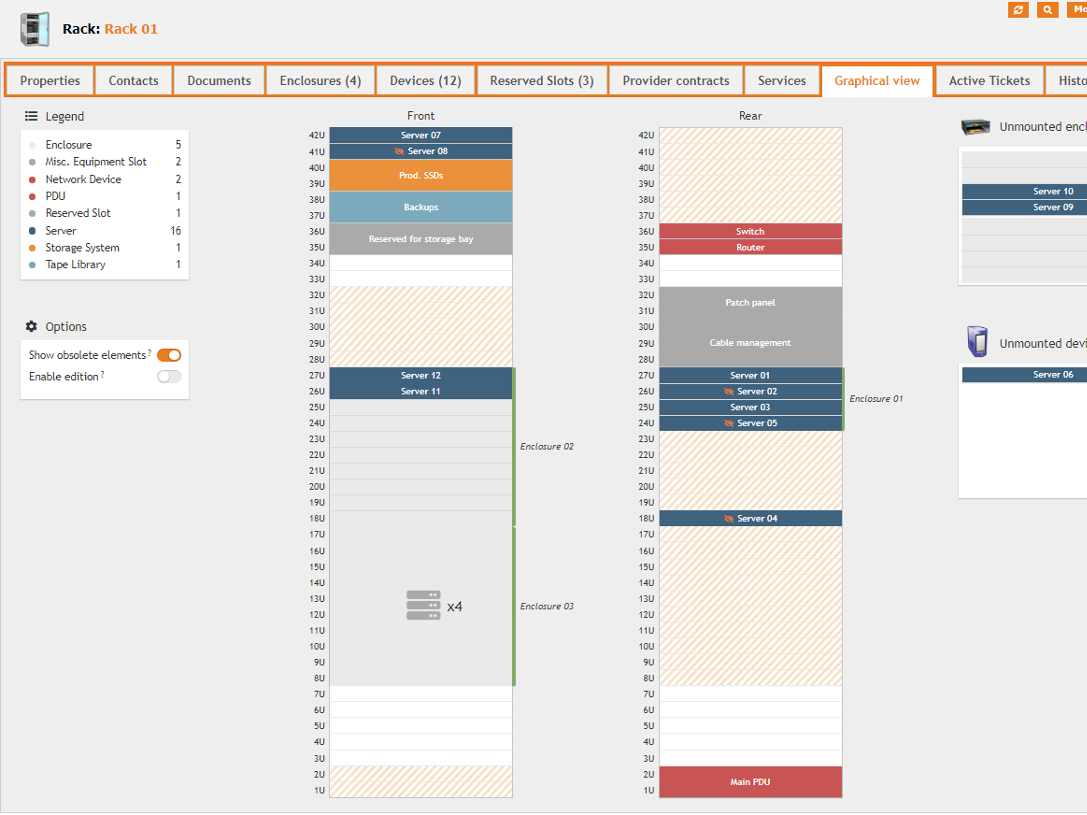
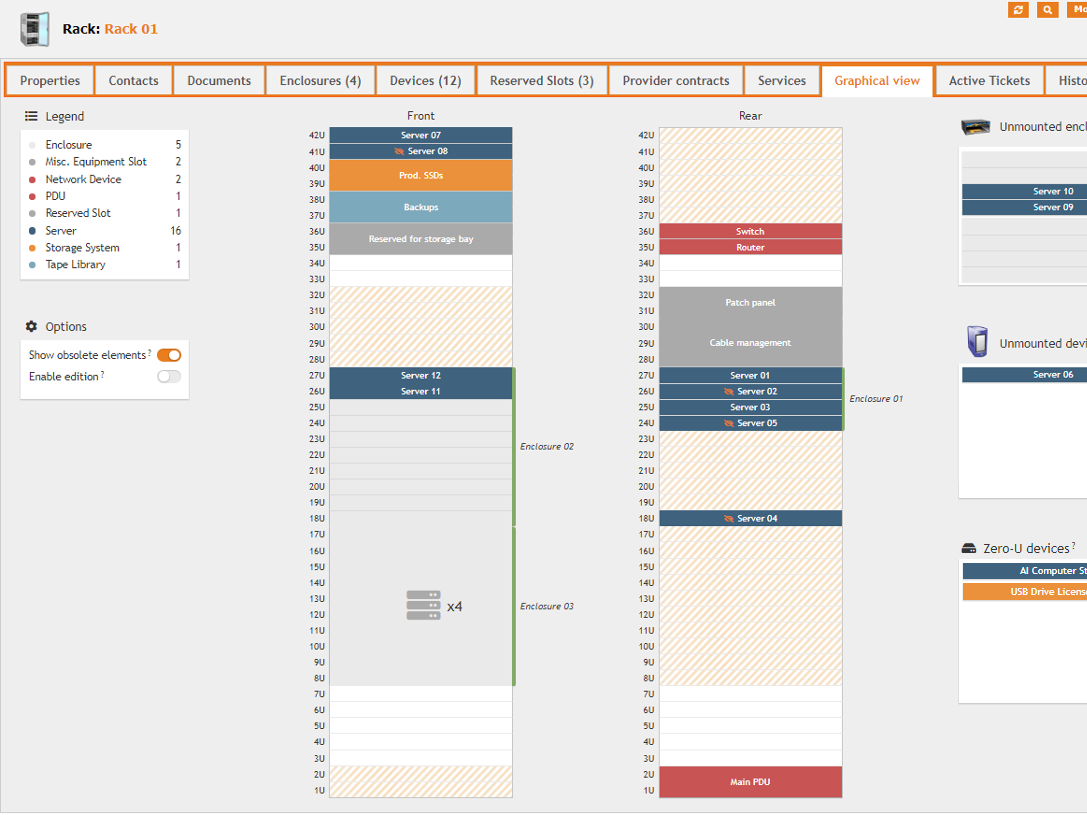
:memo: Update documentation

Changed region(s): [[0.8804, 0.6442, 1.0, 0.7362]]

diff --git a/README.md b/README.md
@@ -33,9 +33,10 @@ Identify specific devices type by hovering the legend
 * [Audit rules](#audit-rules)
 * [Reserved slots](#reserved-slots)
 * [Custom classes](#custom-classes)
+* [Zero-U devices](#zero-u-devices)
 * [Misc. options](#misc-options)
 
-_Paid version will be available end of June '19 on [Molkobain I/O](https://www.molkobain.com/product-category/itop-extensions/)._
+👋 _Paid version is now available on [Molkobain I/O](https://www.molkobain.com/product/datacenter-view-extended/)!_
 
 #### Drag & Drop
 Drag & drop elements in the graphical view to easily set their position instead of manually editing each elements!
@@ -74,6 +75,11 @@ Two new object classes to better describe your racks and enclosures:
 
 #### Custom classes
 You have some custom classes _(not derivating from DatacenterDevice)_ that you would like to use in racks and enclosures? No problem! Just register them in the `custom_device_classes` config. parameter, make sure they have the required attributes _(see documentation)_ and they will automatically appear. 👌
+
+#### Zero-U devices
+Manage devices with non standard size / positioning such as USB drives, vertical PDUs, non rackable devices, ... Just mark them as such to make them appaer in the bottom-right panel of their host, easy as pie!
+
+![Pro features - Zero-U devices](docs/mdv-profeatures-zerou-01.png)
 
 #### Misc. options
 * Us order: Reverse Us order per rack / enclosure to fit your set-up
